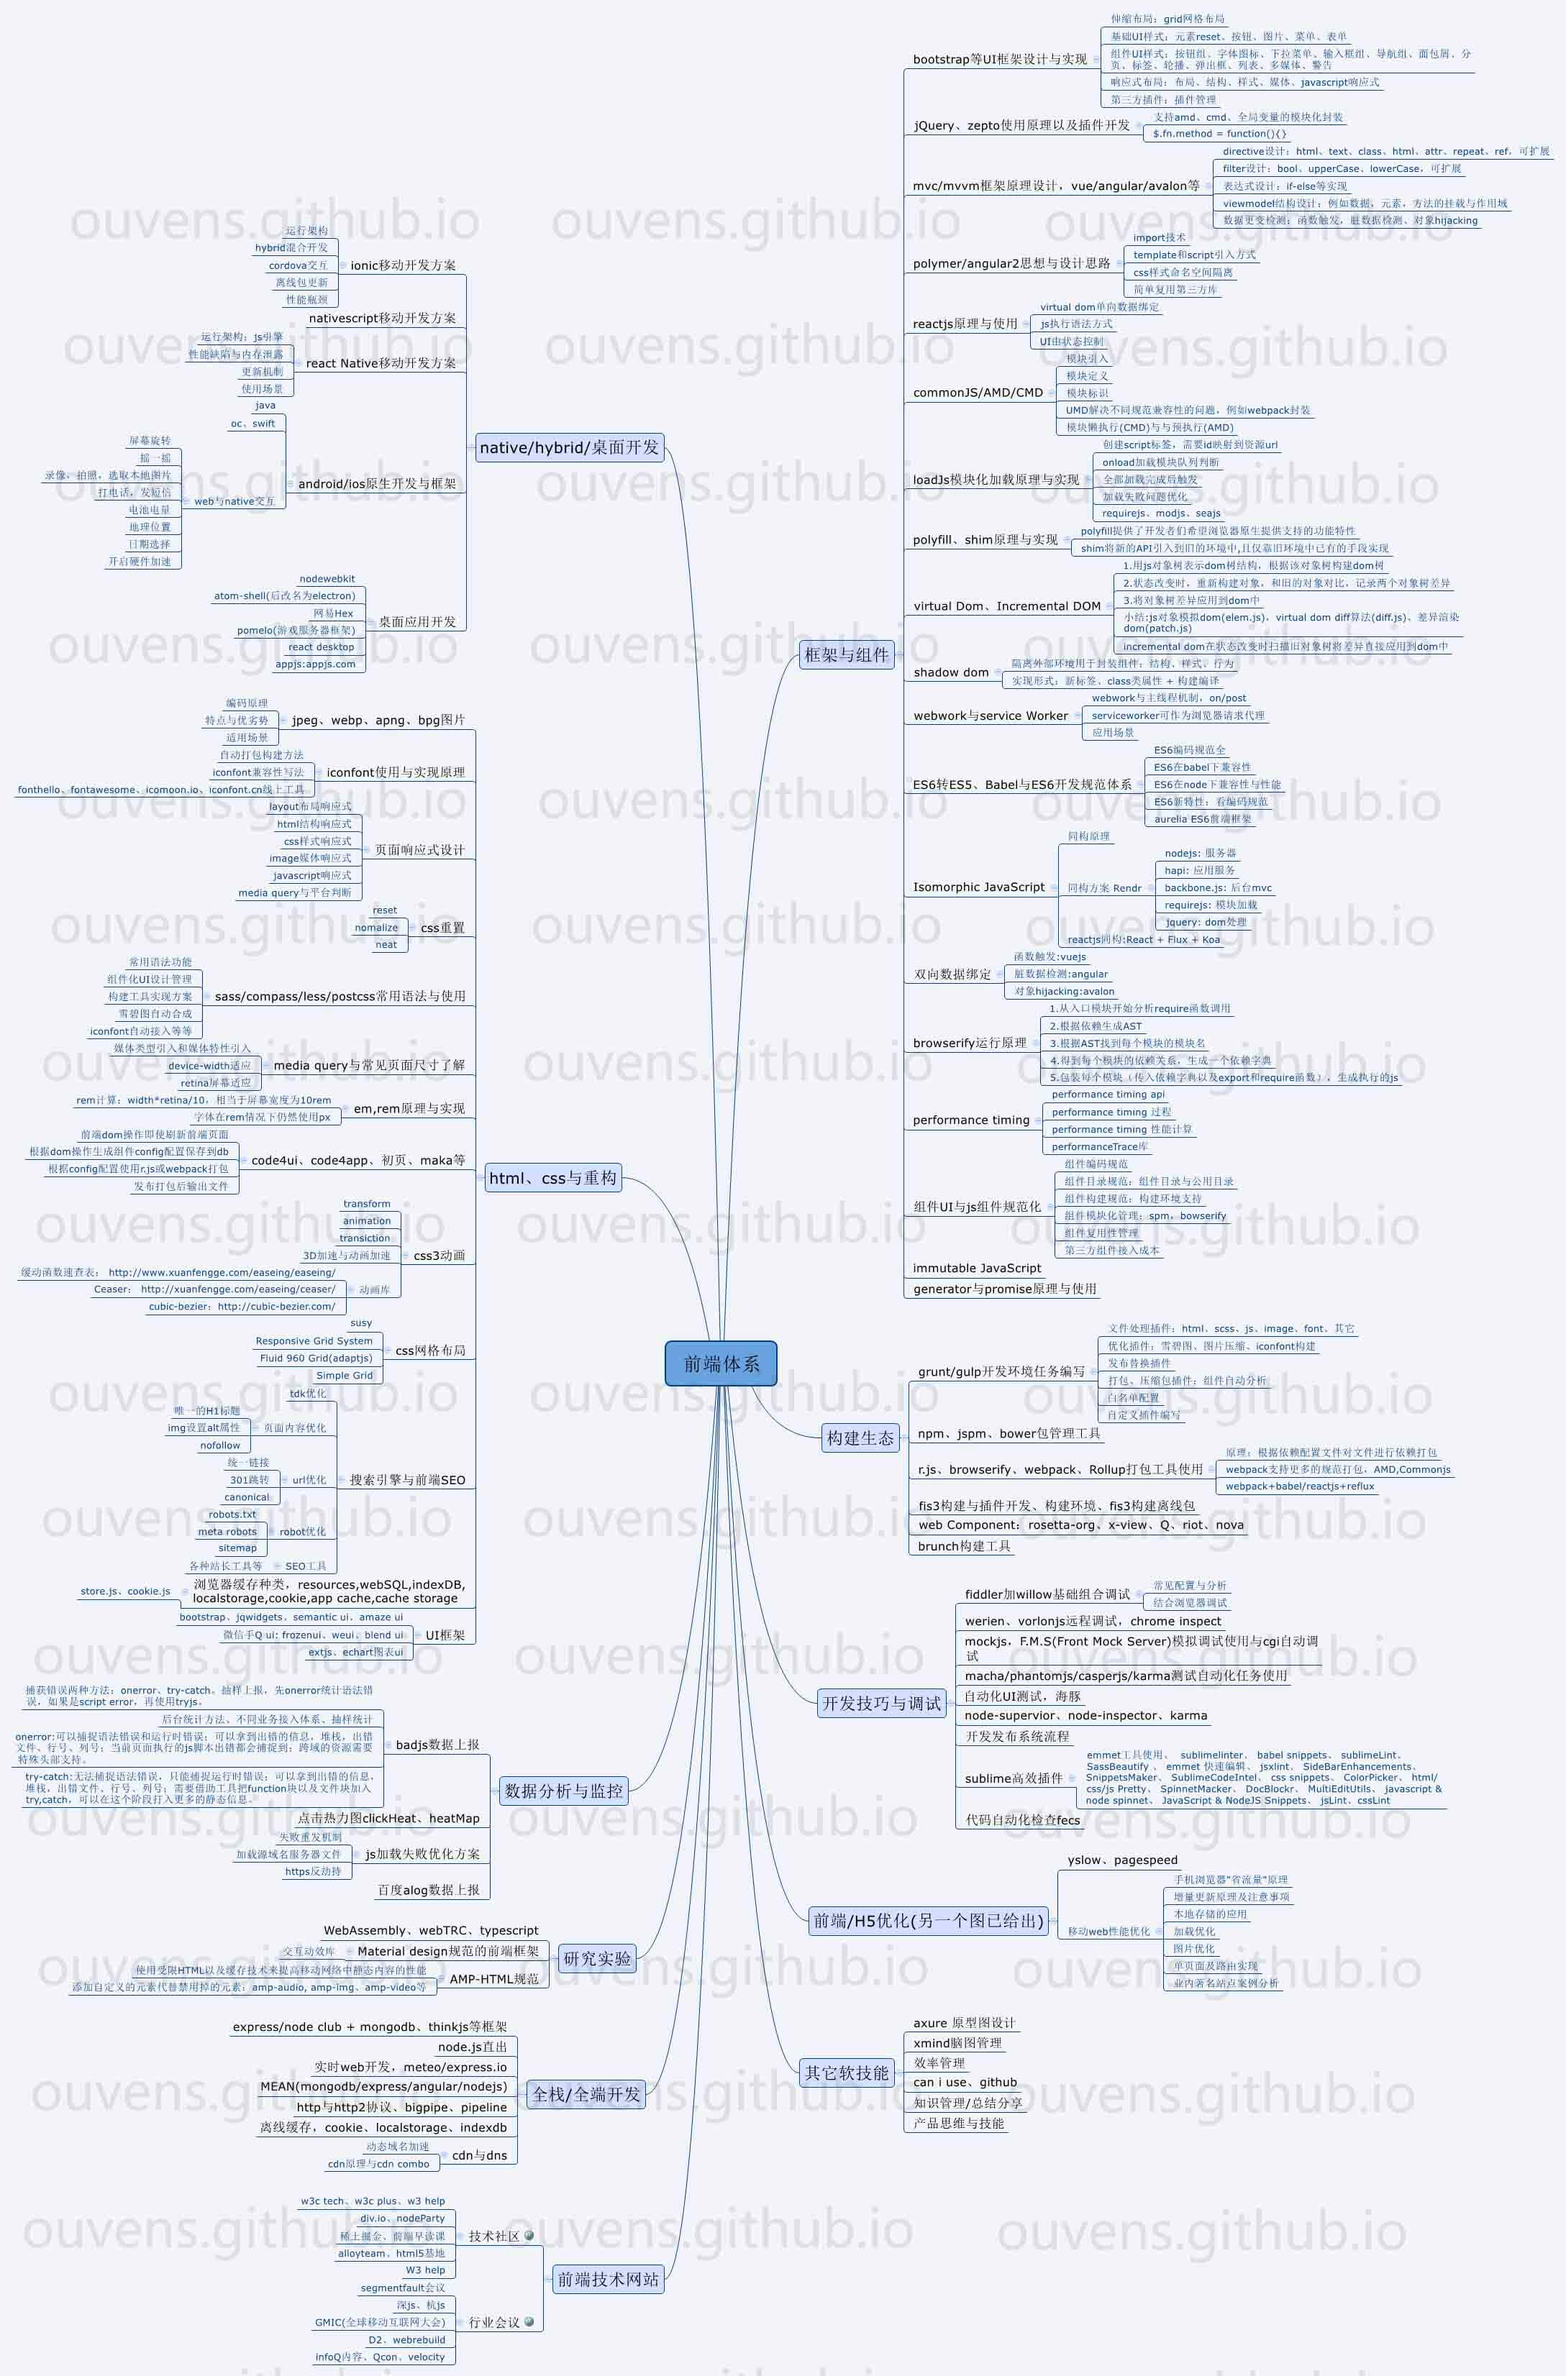
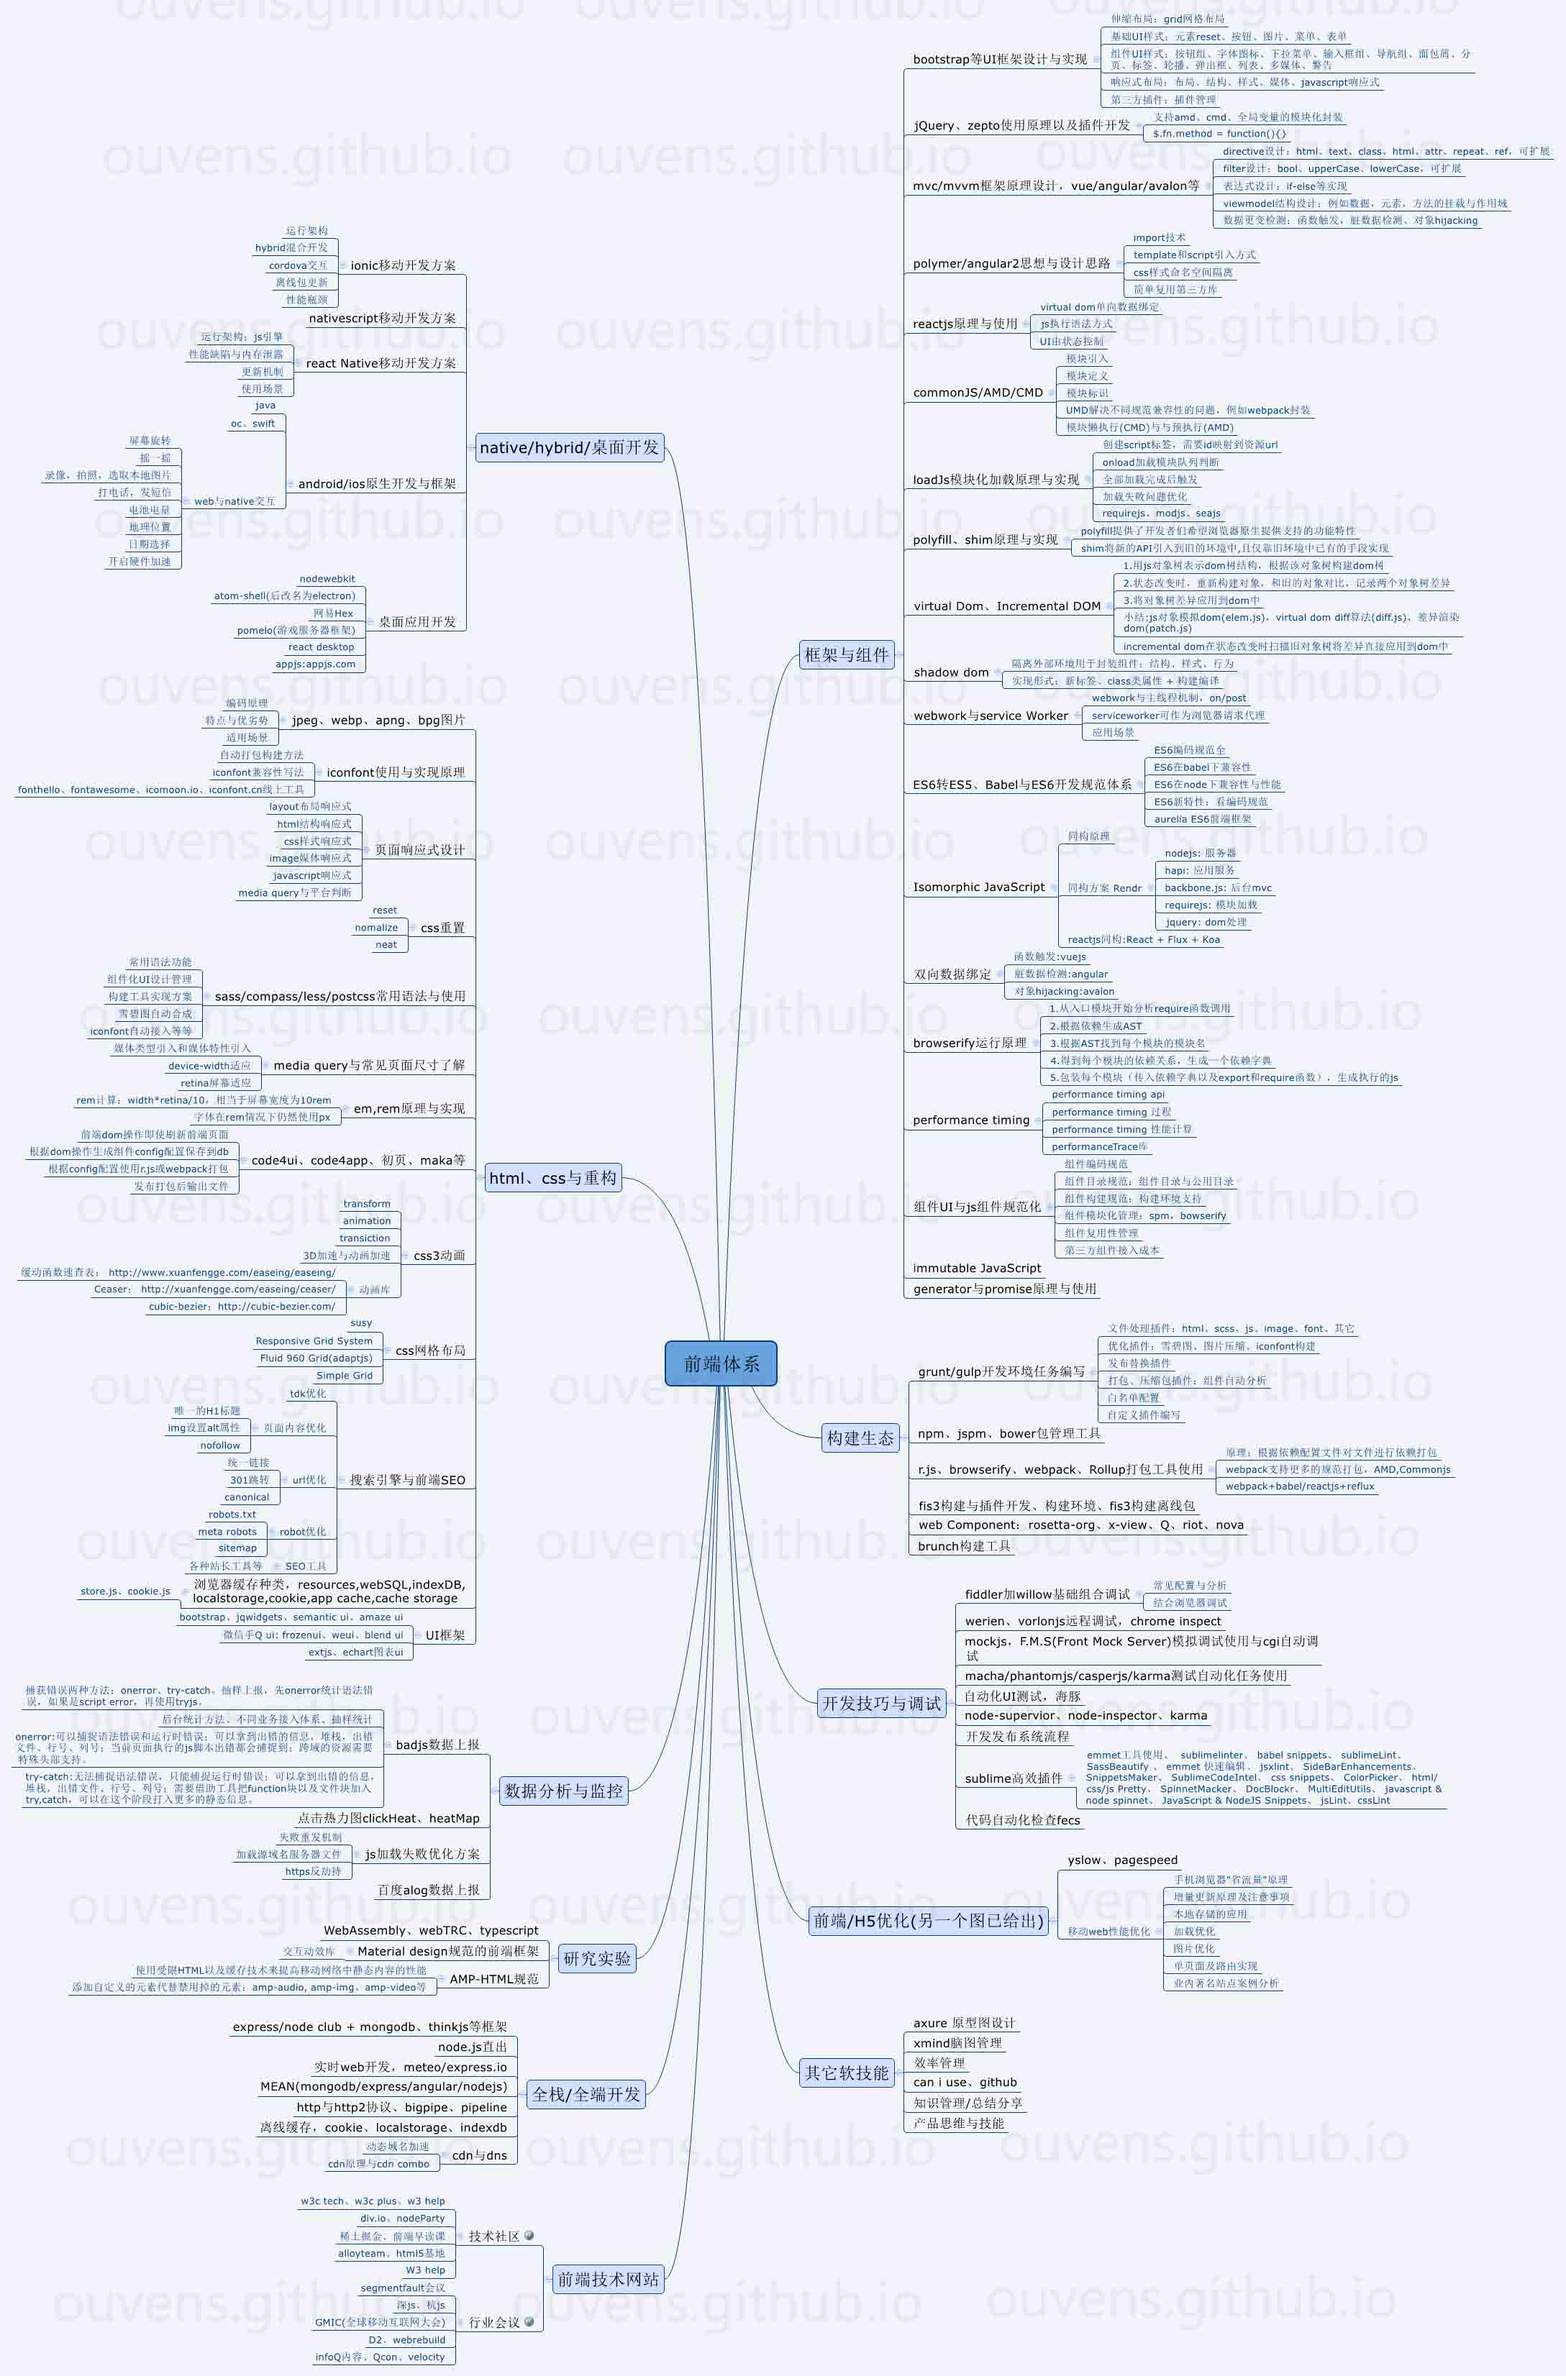
add

Changed region(s): [[0.2186, 0.8729, 0.2811, 0.9041], [0.7184, 0.187, 0.7497, 0.2182], [0.2186, 0.8105, 0.2499, 0.8417]]

diff --git a/README.md b/README.md
@@ -1,7 +1,7 @@
 
 #2015-2016前端知识体系
 
-![](http://7tszky.com1.z0.glb.clouddn.com/FqNcxUNyq2-mE6BSC4ITLhogqHmP)
+![](http://7tszky.com1.z0.glb.clouddn.com/FqYIe5KhDfRsXvZWKGlUAfqmcumW)
 
 对应技术博客：http://ouvens.github.io ，博客持续更新中~
 
